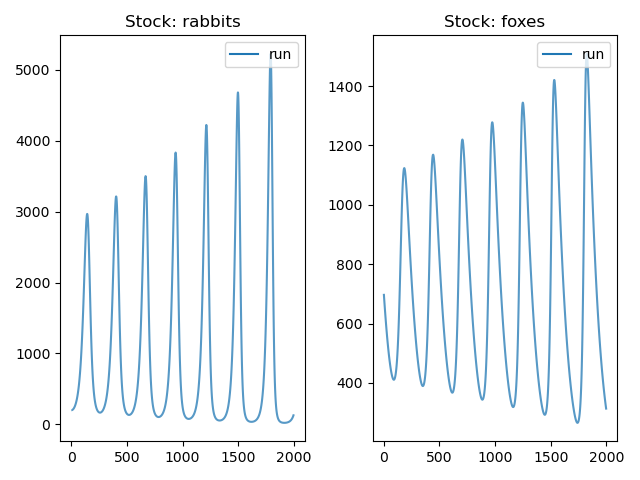
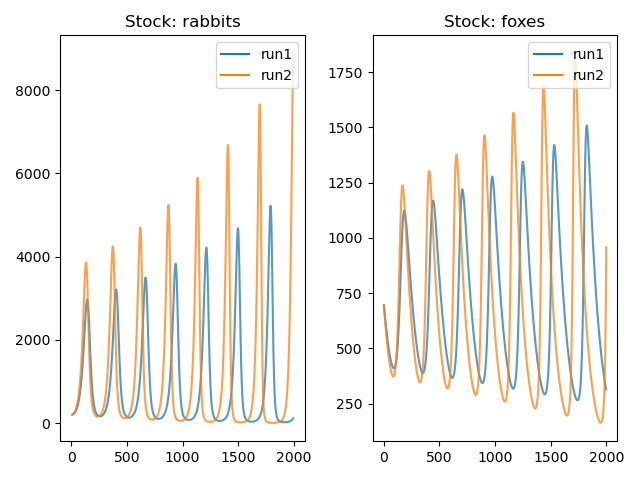
Add docs for outflows and space ops

diff --git a/sphinx/source/user/math.rst b/sphinx/source/user/math.rst
@@ -312,10 +312,62 @@ with a more straightforward diagram:
 outflows
 --------
 
+:py:class:`reno.ops.outflows` is a convenience operation to provide the sum of
+all outflows from a stock. This is distinct from manually constructing an
+equation based on ``stock.out_flows`` because :py:class:`reno.ops.outflows`
+evaluates ``stock.out_flows`` at evaluation time rather than at the point of the
+equation's definition. The manual construction, in order to be accurate, would
+have to occur after all outflows for the stock have already been defined and
+attached.
+
+More semantically, you can use this operation by referring to the property on
+stocks: :py:attr:`stock.outflows <reno.components.Stock.outflows>`.
 
 
 space
 -----
+
+:py:attr:`stock.space <reno.components.Stock.space>` is a property that returns
+an operation (not a operation in and of itself) to help with setting up
+bottlenecks on inflows. The operation returns the difference between a stock's
+value and it's maximum allowable value, after taking the outflows for that
+timestep into account. (In other words ``stock.max - stock + stock.outflows``).
+
+This represents the maximum value that inflows should provide to keep the stock at
+or below it's maximum.
+
+To demonstrate, the following is an updated version of the problem specified in
+the :ref:`min/max` description regarding flow bottlenecks. We set the maximum of
+the flow to take ``s2``'s remaining space into account:
+
+
+.. code-block:: python
+
+    import reno as r
+
+    m = r.Model()
+    with m:
+        s1 = r.Stock(init=100)
+        s2 = r.Stock(max=10)
+        f1 = r.Flow(20, max=r.minimum(s1, s2.space))
+
+        s1 >> f1 >> s2
+
+With the above configuration, ``f1`` will never be greater than either ``s1``'s
+remaining value or the amount that ``s2`` can handle in any given timestep:
+
+.. code-block:: python
+
+    >>> run = m(steps=3)
+    >>> run.s1.values[0]
+    array([100, 90, 90])
+
+    >>> run.f1.values[0]
+    array([10, 0, 0])
+
+    >>> run.s2.values[0]
+    array([0, 10, 10])
+
 
 
 Shape and type info

diff --git a/sphinx/source/user/viz.rst b/sphinx/source/user/viz.rst
@@ -178,7 +178,7 @@ parameter:
 
     tub.latex(t=5, ref_list=["faucet", tub.drain])
 
-.. figure:: ../_static/tub_latex_t_ref_list_example.png
+.. figure:: ../_static/tub_latex_ref_list_example.png
    :align: center
 
 
@@ -194,7 +194,7 @@ components across multiple different simulation runs.
 
 .. code-block:: python
 
-    trace = predator_prey(
+    trace1 = predator_prey(
         rabbit_growth_rate=0.07,
         rabbit_death_rate=0.0001,
         fox_death_rate=0.01,
@@ -203,7 +203,20 @@ components across multiple different simulation runs.
         foxes_0=700.0,
         steps=2000
     )
-    reno.plot_trace_refs(predator_prey, {"run": trace}, ref_list=["foxes", predator_prey.rabbits])
+    trace2 = predator_prey(
+        rabbit_growth_rate=0.071,
+        rabbit_death_rate=0.0001,
+        fox_death_rate=0.012,
+        fox_growth_rate=1e-05,
+        rabbits_0=200.0,
+        foxes_0=700.0,
+        steps=2000
+    )
+    reno.plot_trace_refs(
+        predator_prey,
+        {"run1": trace1, "run2": trace2},
+        ref_list=["foxes", predator_prey.rabbits]
+    )
 
 .. figure:: ../_static/foxes_rabbits_separate.png
    :align: center
@@ -215,9 +228,11 @@ A common figure type used for system dynamics models compares multiple
 components on the same plot axes. The logic for labelling the axes is a bit
 tricky, so :py:func:`reno.viz.plot_refs_single_axis` handles it for you:
 
+(Note this can only handle rendering from one trace/simulation run at a time.)
+
 .. code-block:: python
 
-    reno.plot_refs_single_axis(trace, [predator_prey.foxes, predator_prey.rabbits])
+    reno.plot_refs_single_axis(trace1, [predator_prey.foxes, predator_prey.rabbits])
 
 .. figure:: ../_static/foxes_rabbits_single_axis.png
    :align: center
